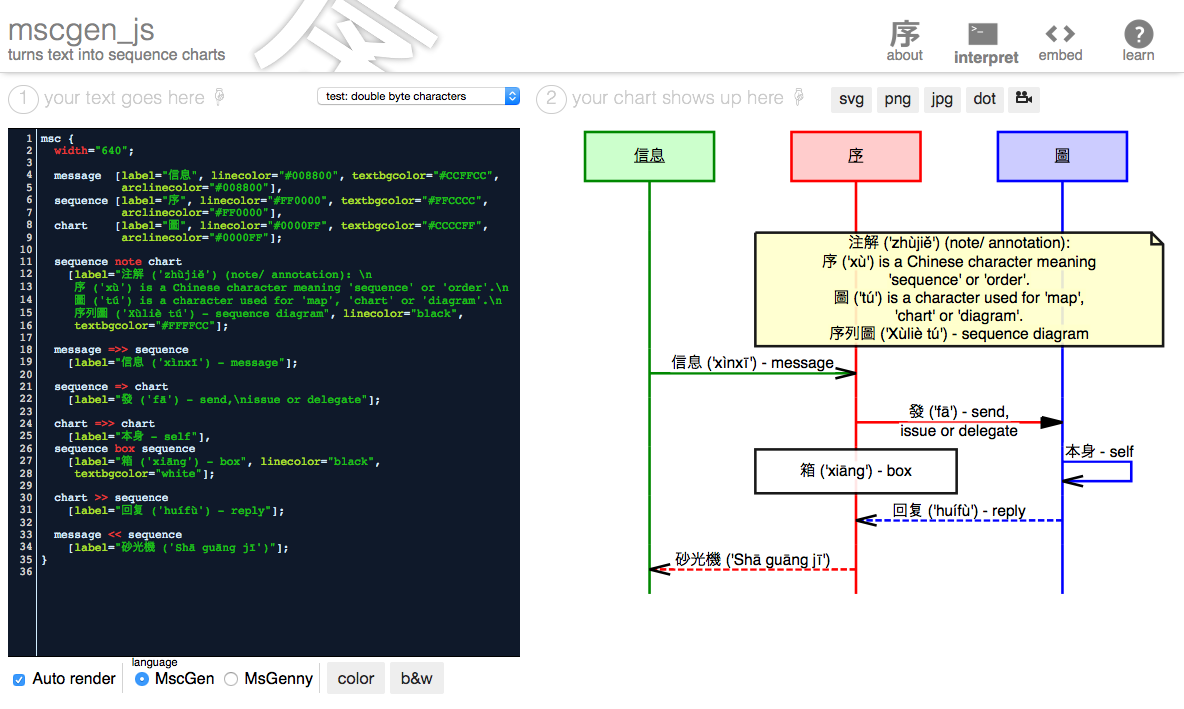
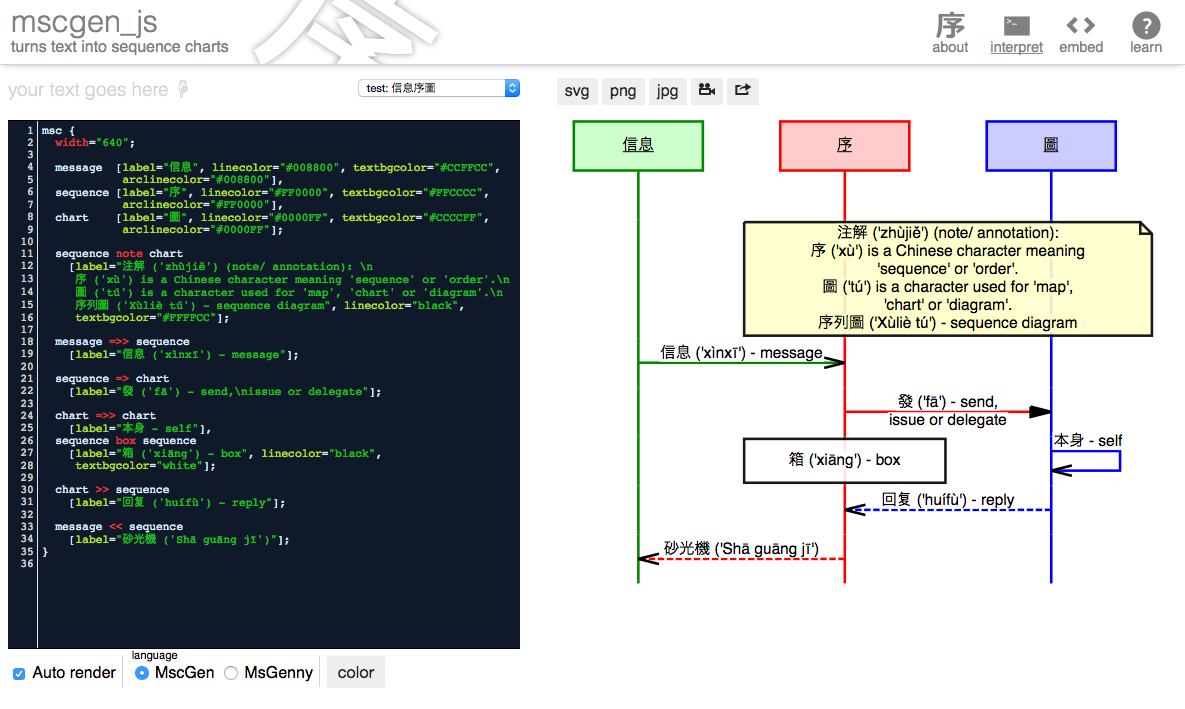
update the tutorial to reflect the latest ui changes to the interpreter
[ci skip]

Changed region(s): [[0.0, 0.0, 1.0, 0.8378], [0.0, 0.8999, 0.4375, 0.9619], [0.75, 0.0, 1.0, 0.0931]]

diff --git a/src/tutorial.html b/src/tutorial.html
@@ -667,8 +667,18 @@ When your program uses features not available in a target language,
 these will get lost in the translation.
 </p>
 <h3>Color</h3>
-<p>When you hit the <em>color</em> button the interpreter colors
-    your sequence chart
+<p>When you hit the <em>color</em> button you can either:
+    <ul>
+        <li>Pick one of three color schemes which adds coloring attributes 
+            to the mscgen source code.
+        </li>
+        <li>Remove any colors from the source.
+        </li>
+    </ul>
+</p>
+<p>For example, here is what the what applying the 'Automatic' color scheme 
+    will get you:
+</p>
 <div>
 <mscgen>msc {
   hscale="0.8";
@@ -692,40 +702,22 @@ these will get lost in the translation.
   Mo =>> Dolores [label="I see it in your eyes"];
 }</mscgen>
 </div>
+<h4>Not for msgenny</h4>
+<p>As msgenny does not support colors, auto color is disabled for that language.
+</p>
+<h4><em>Respect existing colors</em> vs <em>forced</em></h4>
 <p>
-    It uses these rules:
+    Each color scheme has two variants:
+    <ul>
+        <li><b>respect existing colors</b>
+            <p>If an element already has a color attribute <em>of any kind</em> 
+                applying the scheme will not change the colors for that element.</p>
+        </li>
+        <li><b>forced</b>
+            <p>Removes all colors from the chart before applying the scheme.</p>
+        </li>
+    </ul>
 </p>
-    <table class="doc">
-        <tr><th>When <em>x</em> doesn't have a color yet</th><th>the system...</th></tr>
-        <td>entity</td>
-        <td>applies colors from a nice color scheme, affecting
-            <ul>
-                <li>line color</li>
-                <li>background color</li>
-                <li><a href="#coloring-everything-departing-from-a-lifeline">arc line color</a>
-                     the same as the line color</li>
-            </ul>
-        </td>
-        </tr>
-        <tr>
-            <td>note</td>
-            <td>gets the note a light yellow background and black text and lines.</td>
-        </tr>
-        <tr>
-            <td>box (/abox/ rbox)</td>
-            <td>gets the box a white background and black text and lines.</td>
-        </tr>
-        <tr>
-            <td>inline expression</td>
-            <td>gets the inline expression grey lines.</td>
-        </tr>
-    </table>
-<p>    
-    As msgenny does not support colors, auto color is disabled
-    when msgenny is selected.
-</p>
-<h3>B&amp;W</h3>
-<p>Removes all colors from the chart.</p>
 </section>
 <section>
 <h2>Output</h2>
@@ -742,10 +734,6 @@ these will get lost in the translation.
 <p>Opens a new window/ tab with the "rasterized" version of the
     chart in the lossless png or the lossy jpeg formats respectively.
     Saving is just as easy as saving the vector graphics.
-</p>
-<h3>Graphviz dot</h3>
-<p>Opens a new window with a graphviz dot
-    program, that represents the communication diagram version of the sequence chart.
 </p>
 
 <h3>The little film camera icon</h3>
@@ -789,13 +777,28 @@ you'll notice the interpreter grows some extra features:
     directly edit the syntax tree and see changes reflected in the
     chart...</p>
     </li>
-    <li><b>html</b>
-        <p>generates the same sample html as under "embed", only
-    now in a separate window.</p>
-    </li>
-    <li><b>Vanilla mscgen</b>
-        <p>flattens extended features (inline expressions,
-    watermark) to "vanilla" mscgen.</p>
+    <li><b>Extra export options</b>
+        <p><ul>
+            <li><em>Doxygen</em>
+                <p>Opens a new window with the current chart translated into vanilla mscgen, 
+                    
+                    embedded in a comment that plays nice with <a href="https://www.stack.nl/~dimitri/doxygen/">doxygen</a>.
+                </p>
+            </li>
+            <li><em>GraphViz dot</em>
+                <p>Opens a new window with a graphviz dot
+                    program, that represents the communication diagram version of the sequence chart.
+                </p>
+            </li>
+            <li><em>HTML</em>
+                <p>generates the same sample html as under "embed", only
+            now in a separate window.</p>
+            </li>
+            <li><em>Vanilla MscGen</em>
+                <p>flattens extended features (inline expressions,
+            watermark) to "vanilla" MscGen.</p>
+            </li>
+        </ul></p>
     </li>
     <li><b><em>save</em> and <em>load</em> buttons</b>
         <p>These buttons respectively save and load the current chart to 
